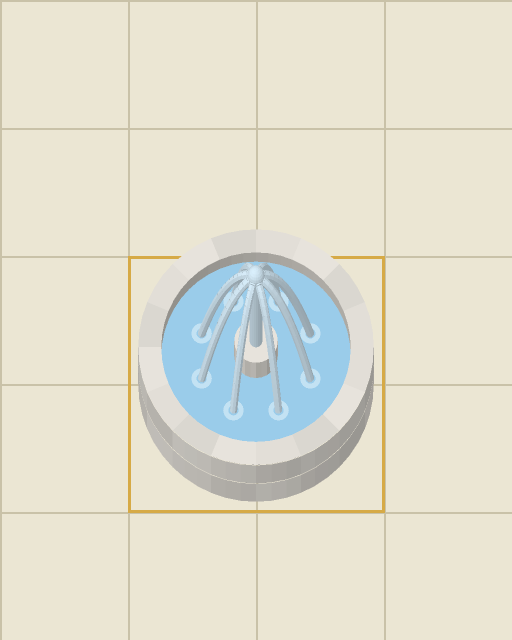
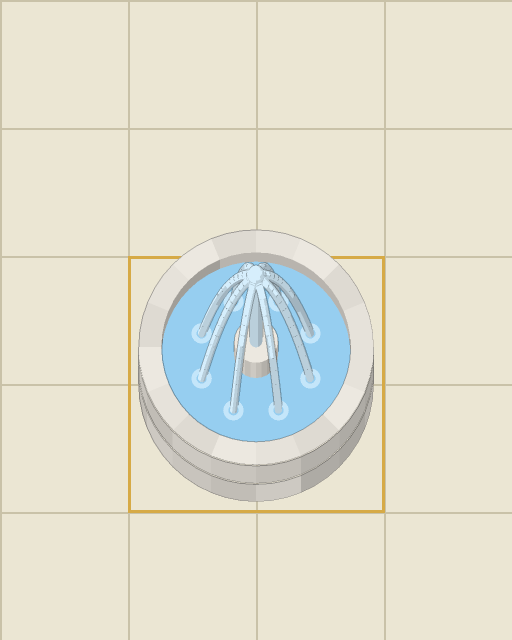
3Dのお手本をトゥーンシェーダーで写す（噴水）
Claude-Session: https://claude.ai/code/session_01JdcgfNP89MZKdNE3ikSj1K

diff --git a/tools/art/oblique3d.py b/tools/art/oblique3d.py
@@ -1,6 +1,7 @@
 """3Dの下絵を、ゲームと同じ見え方で写すための小さな道具（パラソル・噴水などの絵をたのむ用）。
 x=東, y=南, z=上（単位はマス）。ゲームの見え方は 画面=(x, y-0.8z)、見る向きは (0,0.8,1)。
-三角形をならべ、光のかげをつけ、zバッファで手前の面だけ写す。2倍の細かさで描いて BOX でちぢめる。"""
+三角形をならべ、zバッファで手前の面だけ写す。かげはトゥーンシェーダー（光のあたり方を3だんの色にわける）。
+形のふち・前後の物のさかいには、まわりより少しこい色の線（黒にしない）。2倍の細かさで描いて BOX でちぢめる。"""
 import math
 import numpy as np
 from PIL import Image, ImageDraw
@@ -68,8 +69,8 @@ def render(sc, proj, ext, depth):
         if ln < 1e-12: continue
         n /= ln
         if np.dot(n, depth) < 0: n = -n
-        sh = 0.68+0.32*max(0.0, float(np.dot(n, LIGHT)))
-        cc = np.clip(col*sh+(255-col)*0.08, 0, 255)
+        d = float(np.dot(n, LIGHT)); sh = 1.0 if d > 0.55 else 0.87 if d > 0.1 else 0.76   # トゥーン：3だん
+        cc = np.clip(col*sh, 0, 255)
         P = [((proj(p)[0]-x0)*S*SS, (proj(p)[1]-y0)*S*SS) for p in (a, b, c)]
         D = [float(np.dot(p, depth)) for p in (a, b, c)]
         xs = [p[0] for p in P]; ys = [p[1] for p in P]
@@ -86,6 +87,14 @@ def render(sc, proj, ext, depth):
         z = w0*D[0]+w1*D[1]+w2*D[2]
         szb = zb[by0:by1+1, bx0:bx1+1]; sub = img[by0:by1+1, bx0:bx1+1]
         vis = m & (z > szb); szb[vis] = z[vis]; sub[vis, :3] = cc; sub[vis, 3] = 255
+    # ふちの線：透明とのさかい（形のふち）と、奥行きが大きくとぶ所（前後の物のさかい）。線の色は、手前がわの色を少しこくした色
+    a = img[..., 3] > 0; edge = np.zeros_like(a); T = 0.06
+    for dy, dx in ((0, 1), (1, 0), (0, -1), (-1, 0)):
+        sa = np.roll(a, (dy, dx), (0, 1)); sz = np.roll(zb, (dy, dx), (0, 1))
+        edge |= a & (~sa | (sz - zb > T))      # となりが透明か、となりがずっと手前（自分が奥）→ 自分のがわに線
+    for k in range(1, SS):                     # 線のはばは、できあがりで1ドット
+        edge |= np.roll(edge, k, 0) & a | np.roll(edge, k, 1) & a
+    img[edge, :3] = img[edge, :3]*0.72
     return Image.fromarray(img.astype(np.uint8), 'RGBA').resize((Wp//SS, Hp//SS), Image.BOX)
 
 def grid_bg(ext, foot=None):

diff --git a/CLAUDE.md b/CLAUDE.md
@@ -445,7 +445,7 @@
 - 坂の横は、側板ではなく、がけと同じ岩の絵（横向きの手前の三角は `cliff:face`、手前・奥向きの左右は横の岩 `cliff:sideL/R`、上が乾いた地面なら `~d`）。段差にうまった坂（横ががけ）には描かない。
 - 階段は建物（`BUILDS`）：「おく」の建てるからえらび、せいれいが建てる。横（手前・奥向きは左右、横向きは奥と手前）に壁・柵・がけがないがわには、階段と同じ素材の側板をつける。側板は段にそわない、まっすぐななめの板。左右ががけのときは、階段を切りとらずにふつうに描き、そのあとに、がけの横のはし（横の岩・丸いはし）を上にかさねる（`cliffEdgeOver`、重なり順で見せる）。段のさかい（横向き・奥向き）は、下へいくほど暗くせず、さかいに1ドットのかげと、その外がわにうすいかげ1ドット。側板に接する面（段・坂）にも、かげ2ドット。階段の側板のてっぺんは段より5ドット上（坂は2）。奥の側板は、上の面と手前に向いた側面を描く。横向きの階段は、おくの側板を段より先に描き（段のぎざぎざが前に見える）、段のさかいに高い段の正面（けこみ）を3ドットのはばで見せる。坂の面のもようは、のぼった先の高いマスの地面（草地・あれ地・あぜ道・砂利道など）と同じ（`slopeTex`）。
 - 階段の絵は、段差の絵とは別の物として、足もとの順に描く（`drawStairObj`）。手前・奥向きの階段・坂は、のぼった先の高いマスの行のはじめに描く（上に立つ子の足が、坂にかくれないように。`objectDepth`）。絵は生成AIにたのまず、コードで描く：段の手前のふちに明るい線1ドット、段の奥に濃いかげ1ドット。面には、もらったテクスチャ（木は `tex:planks`、石は `tex:granite`、128×128）を1マス64ドットの細かさでしきつめる。木は段にそって板がならぶ向き（横向きの階段の段は、たて）。段の手前の面・側板は、上の面より暗く。レンガは1こ16×8ドット（世界の座標）で、段の上の面にも目地。段の上の面と、そのすぐ下の手前の面は、同じならびの目地。
-- 角度や形がゲームとずれる絵は、大まかな形を3Dで作り、ゲームと同じ見え方（x, y−0.8z）で写した参考の絵をいっしょにわたすと、そろう（`tools/art/gazebo2/gazebo3d.py`）。
+- 角度や形がゲームとずれる絵は、大まかな形を3Dで作り、ゲームと同じ見え方（x, y−0.8z）で写した参考の絵をいっしょにわたすと、そろう（`tools/art/gazebo2/gazebo3d.py`）。3Dのお手本は、立体（三角形・奥行き）で作り、トゥーンシェーダー（かげは3だんの色・ふちに少しこい線）で写す（`tools/art/oblique3d.py`）。
 - 絵を生成AIにたのんでうまくいかないときは、ゲームの形どおりの下絵をコードで描いて、清書をたのむ。
 
 ## 草地のふち
